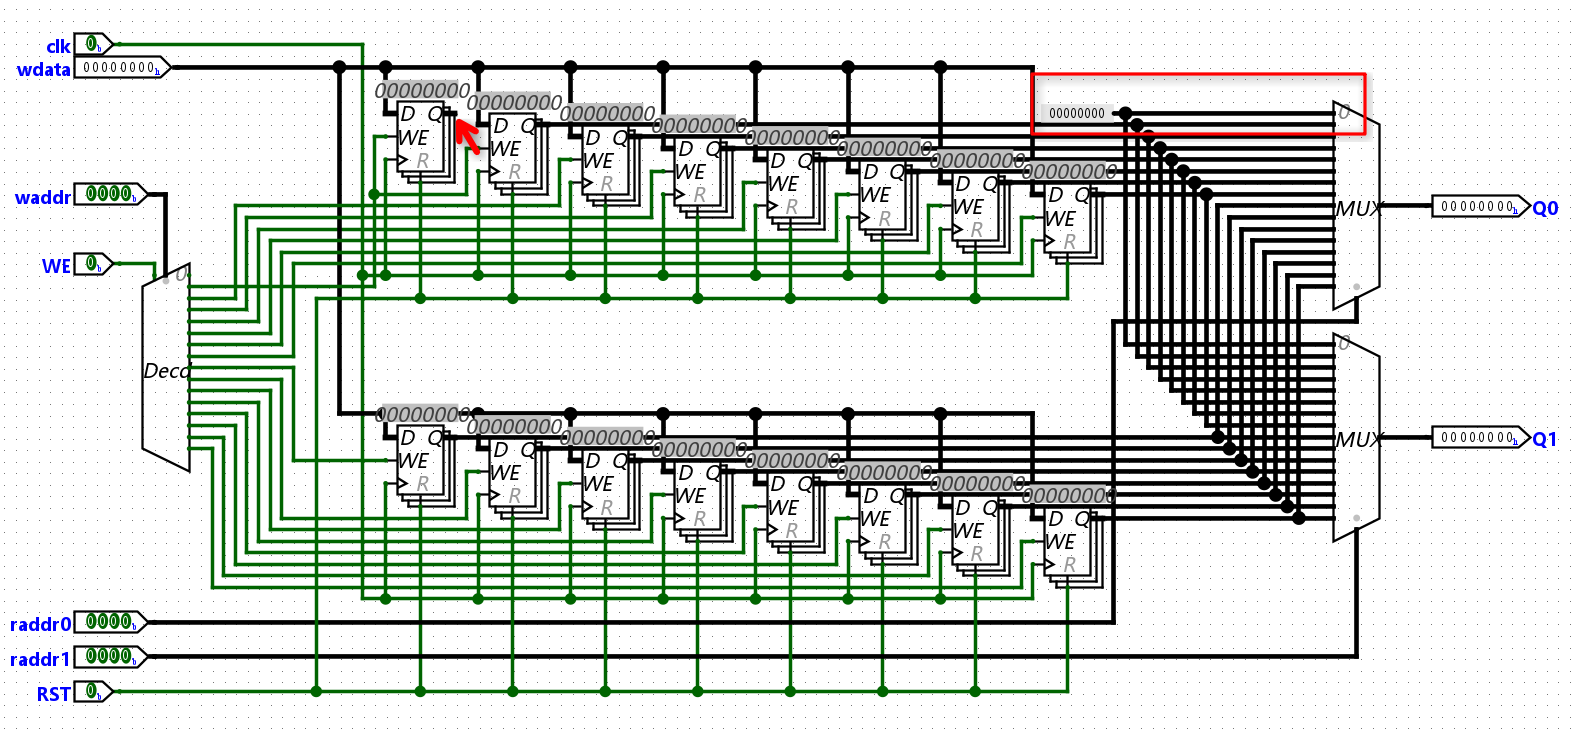
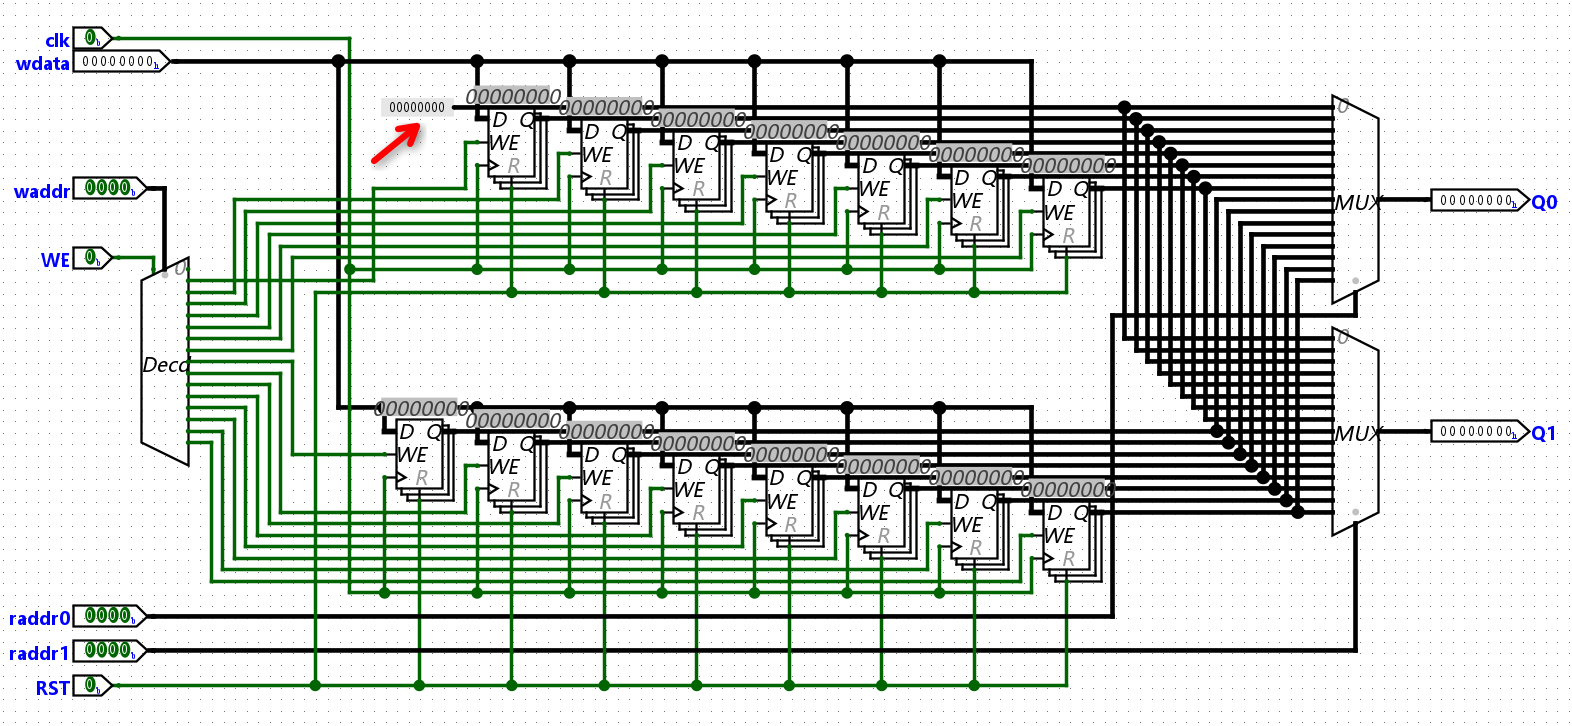
sync

Changed region(s): [[0.0, 0.0303, 0.9975, 0.9697]]

diff --git a/docs/obsidian/计算机系统与体系结构/minirv32 CPU.md b/docs/obsidian/计算机系统与体系结构/minirv32 CPU.md
@@ -247,6 +247,16 @@ is_addi = (inst[6:0] == `0x13`) && (inst[14:12] == `0x00`)
 
 Logisim中自带位扩展器, 可根据配置选择是零扩展还是符号扩展.
 
+测试`addi`指令时除了下面用到的测试指令外, 还需要考虑**立即数是负数**的情况, 可以考虑使用以下程序进行测试:
+
+```asm
+ffa00513  addi a0, zero, -6
+00150513  addi a0, a0, 1
+00550513  addi a0, a0, 5
+```
+
+这是一个连续加法 $-6 + 1 + 5 = 0$ 的程序, 测试时应该可以观察到`a0`的值最终为0.
+
 ### `JALR`指令
 
 观察`jalr`指令的格式:
